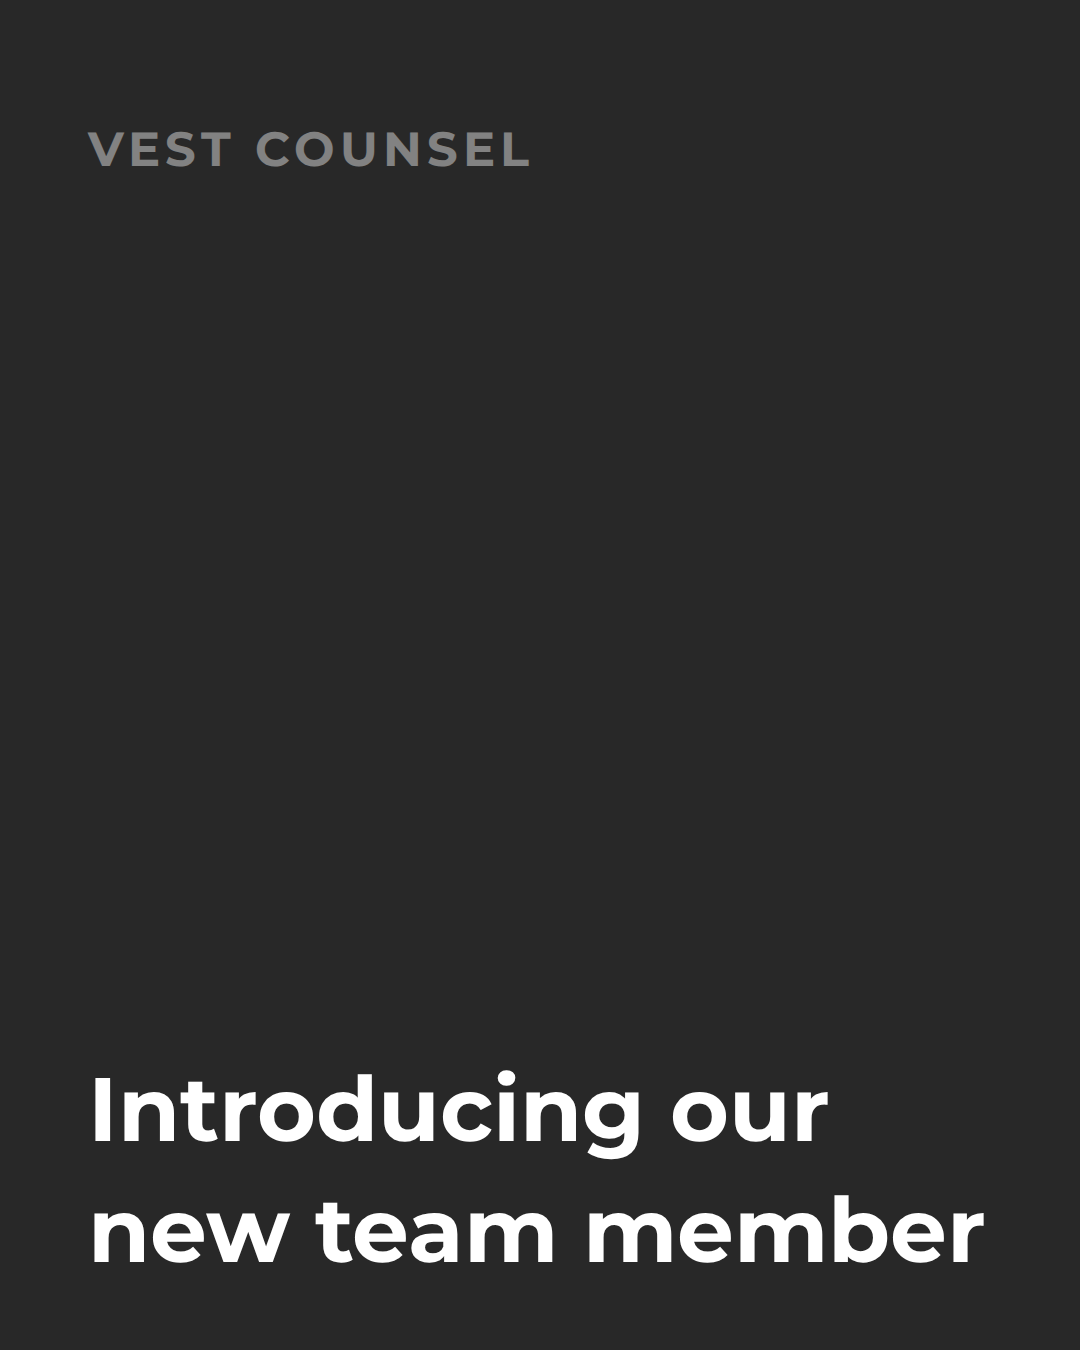
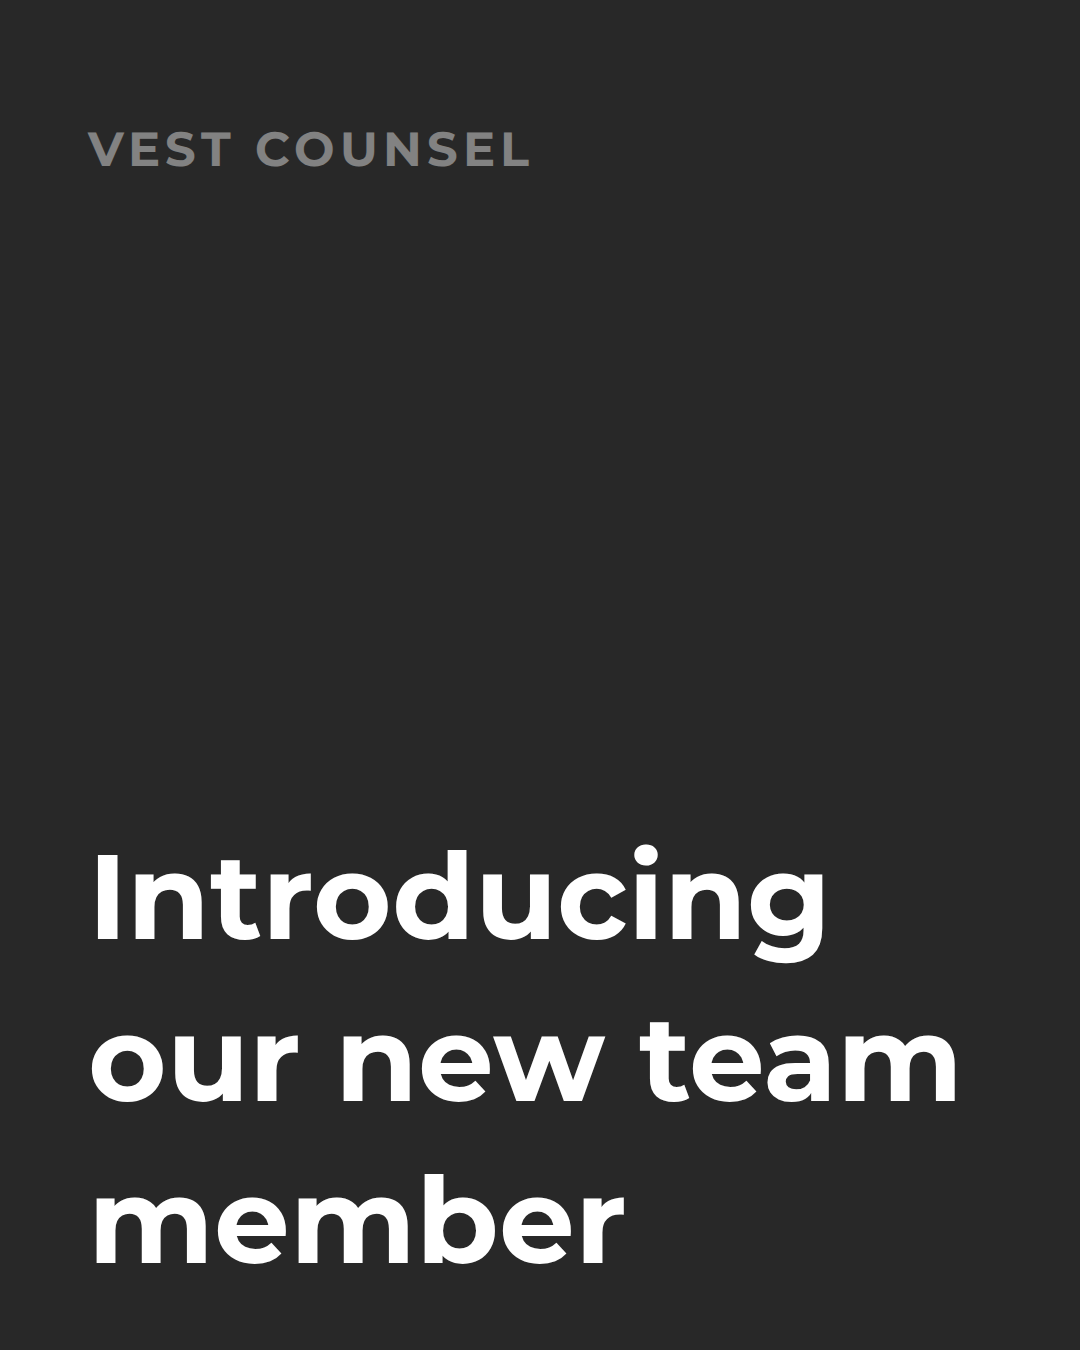
Let cover titles wrap to three lines at full size
Cover titles now hold 120px and wrap naturally onto up to three lines
(explicit returns still honored via pre-wrap); the size steps down only
when a fourth line or an unbreakable word would overflow, with the 72px
floor unchanged. The title block keeps its exact left margin and
bottom-baseline anchor. Removed the forced break hints from the two
practice cover titles so natural wrapping applies, and regenerated both
covers: Taylor now renders at 120px, trademark-guide at 101px.

Claude-Session: https://claude.ai/code/session_01DcJjyEqKKpuBm11ozHHHg2

Changed region(s): [[0.0611, 0.7467, 0.9167, 0.9333], [0.0917, 0.6222, 0.7639, 0.7156]]

diff --git a/templates/cover.html b/templates/cover.html
@@ -39,9 +39,10 @@
   .slide.bg-paper .wordmark,
   .slide.bg-cream .wordmark{ opacity:1; color:var(--gray); }
 
-  /* white-space:pre means a line breaks ONLY where you press return.
-     The script below shrinks the type until the longest line fits. */
-  .display{ --fs:120; --lh:1.35; --bl:1263; letter-spacing:0; white-space:pre; }
+  /* pre-wrap keeps explicit returns AND wraps long titles naturally.
+     The script below holds 120px whenever the title fits on up to
+     three lines, and only then starts shrinking. */
+  .display{ --fs:120; --lh:1.35; --bl:1263; letter-spacing:0; white-space:pre-wrap; }
 </style>
 </head>
 <body>
@@ -75,37 +76,31 @@
 })();
 
 /* ---------------------------------------------------------------------
-   Auto-fit. Measures the longest line and drops the size until it clears
-   the margins. Never grows past MAX, never shrinks past MIN.
+   Auto-fit. Titles hold 120px and wrap naturally onto up to three
+   lines. The size drops only when the title would need a fourth line
+   (or a single unbreakable word is wider than the margins), and never
+   shrinks past MIN.
 
    Set LOCK to a number (e.g. LOCK = 116) to force every headline to one
    fixed size instead. Use that when you want a whole carousel to hold a
    single type size no matter what the copy is.
    --------------------------------------------------------------------- */
-const MAX = 120, MIN = 72, LOCK = null;
-
-function widestLine(el, fs){
-  const cs = getComputedStyle(el);
-  const probe = document.createElement('span');
-  probe.style.cssText = 'position:absolute;visibility:hidden;white-space:pre;' +
-    `font:700 ${fs}px Montserrat,sans-serif;` +
-    `letter-spacing:${cs.letterSpacing};text-transform:${cs.textTransform};`;
-  document.body.appendChild(probe);
-  let w = 0;
-  for (const line of el.textContent.split('\n')){
-    probe.textContent = line;
-    w = Math.max(w, probe.getBoundingClientRect().width);
-  }
-  probe.remove();
-  return w;
-}
+const MAX = 120, MIN = 72, LOCK = null, MAX_LINES = 3;
 
 document.fonts.ready.then(() => {
   document.querySelectorAll('.display').forEach(el => {
     if (LOCK){ el.style.setProperty('--fs', LOCK); return; }
-    const avail = el.clientWidth;                  // 904 at an 88px margin
-    const fs = Math.min(MAX, Math.floor(MAX * avail / widestLine(el, MAX)));
-    el.style.setProperty('--fs', Math.max(MIN, fs));
+    const lh = 1.35;
+    const fits = (fs) => {
+      const lineCount = Math.round(el.clientHeight / (lh * fs));
+      return lineCount <= MAX_LINES && el.scrollWidth <= el.clientWidth + 1;
+    };
+    let fs = MAX;
+    el.style.setProperty('--fs', fs);
+    while (fs > MIN && !fits(fs)){
+      fs -= 0.5;
+      el.style.setProperty('--fs', fs);
+    }
   });
 });
 </script>
